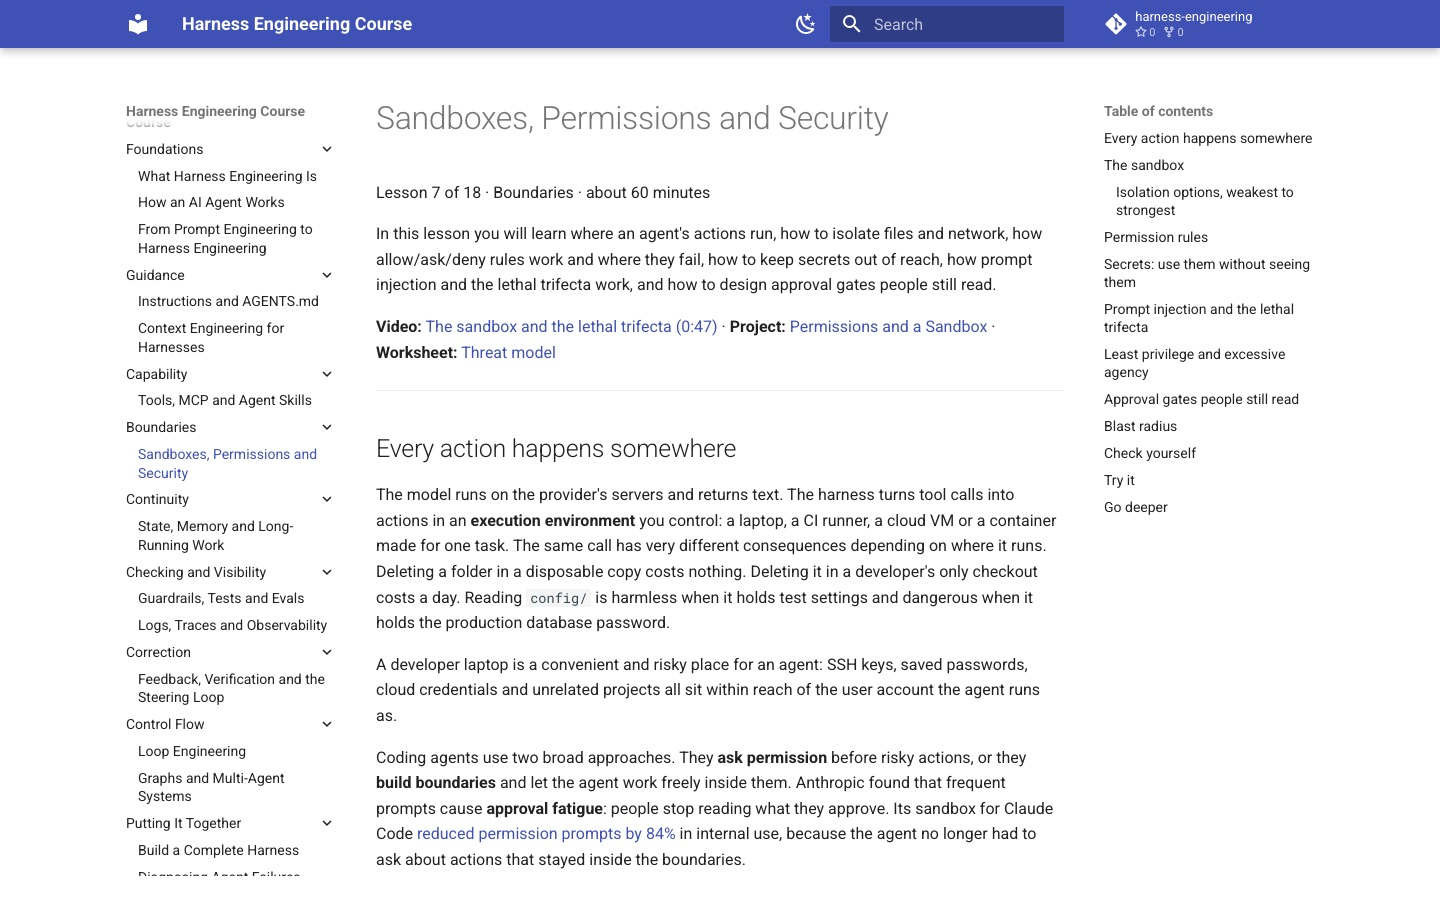
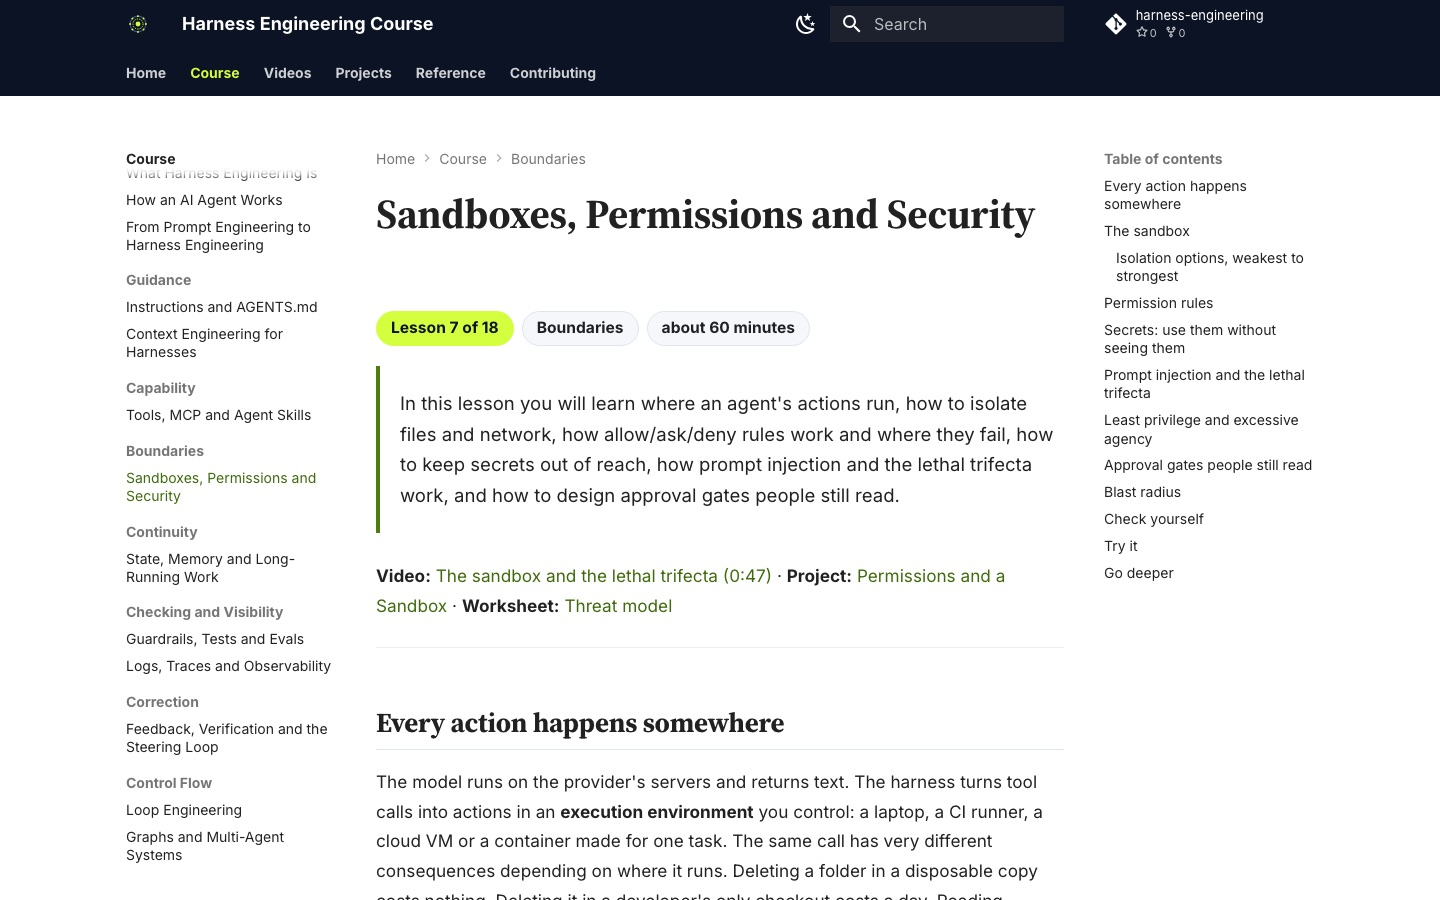
Refresh the website screenshots in the README

Changed region(s): [[0.0, 0.0, 1.0, 0.9644], [0.25, 0.4356, 0.7188, 1.0], [0.7812, 0.6222, 0.8125, 0.6533]]

diff --git a/README.md b/README.md
@@ -330,8 +330,8 @@ The whole course is also a searchable website with dark mode, a sidebar for ever
 
 <table>
   <tr>
-    <td width="50%"><a href="https://abhishekashtekardev.github.io/harness-engineering/course/07-sandboxes-permissions-and-security/"><img src="assets/readme/site-lesson.jpg" alt="Lesson 7 on the course website"></a><p align="center"><sub>A lesson page, with the outline on the right</sub></p></td>
-    <td width="50%"><a href="https://abhishekashtekardev.github.io/harness-engineering/videos/"><img src="assets/readme/site-videos.jpg" alt="The videos page on the course website"></a><p align="center"><sub>The videos page</sub></p></td>
+    <td width="50%"><a href="https://abhishekashtekardev.github.io/harness-engineering/"><img src="assets/readme/site-home.jpg" alt="The course website home page"></a><p align="center"><sub>The home page</sub></p></td>
+    <td width="50%"><a href="https://abhishekashtekardev.github.io/harness-engineering/course/07-sandboxes-permissions-and-security/"><img src="assets/readme/site-lesson.jpg" alt="Lesson 7 on the course website"></a><p align="center"><sub>A lesson page, with every part in the sidebar</sub></p></td>
   </tr>
 </table>
 
